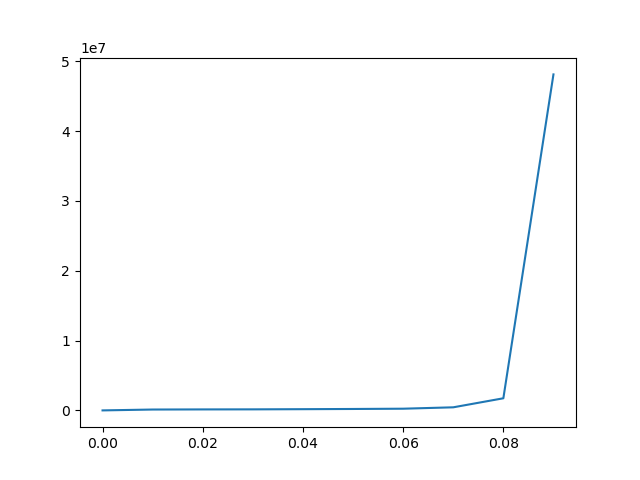
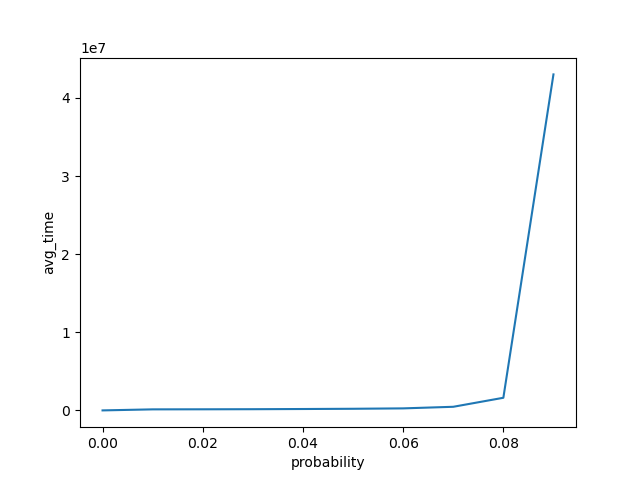
Added axis

diff --git a/lab1.2.py b/lab1.2.py
@@ -33,5 +33,7 @@ while p <= (1/N):
     avg_T.append(collision / _sum)
     p += 0.01
 
+plt.xlabel("probability")
+plt.ylabel("packet_loss_probability")
 plt.plot(probability_l, avg_T)
 plt.show()

diff --git a/lab1.py b/lab1.py
@@ -37,6 +37,7 @@ while p <= (1/N):
         avg_T.append(awaiting_sum / p)
     p += 0.01
 
-
+plt.xlabel("probability")
+plt.ylabel("avg_time")
 plt.plot(probability_l, avg_T)
 plt.show()
